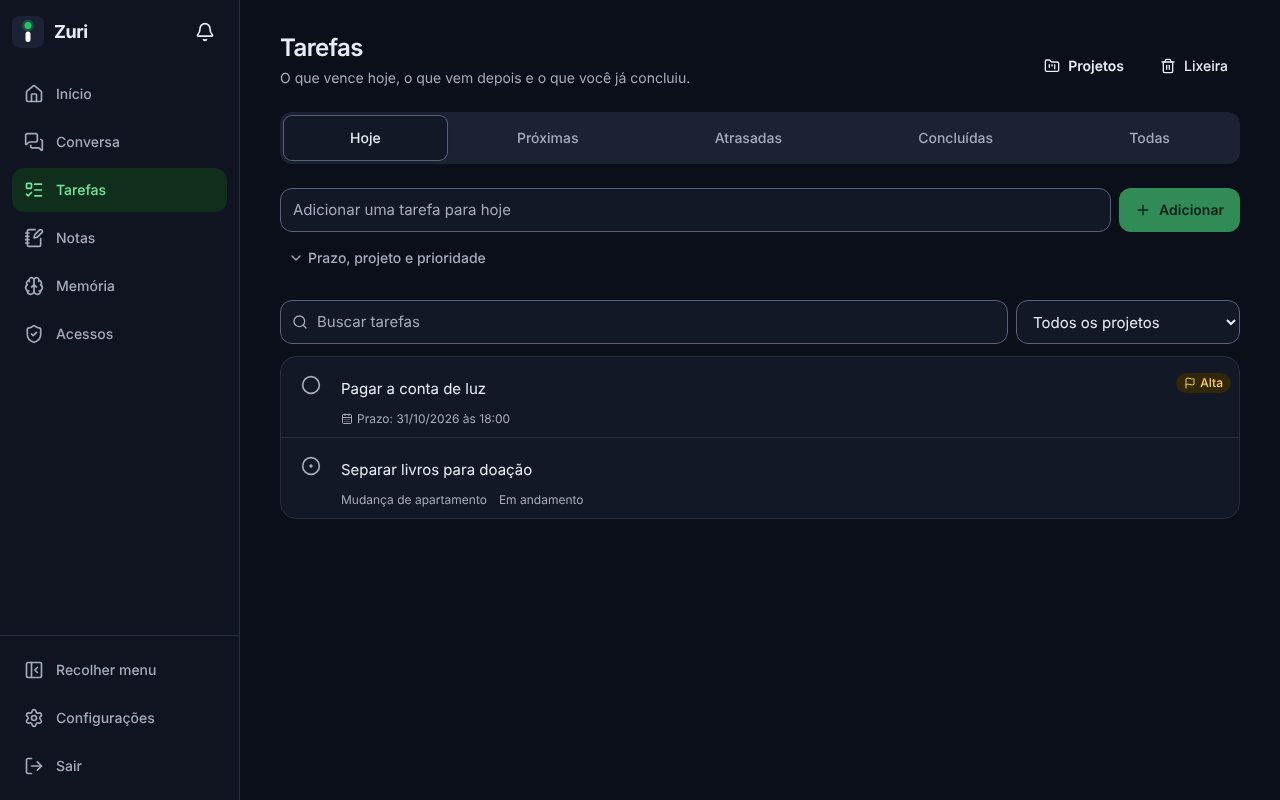
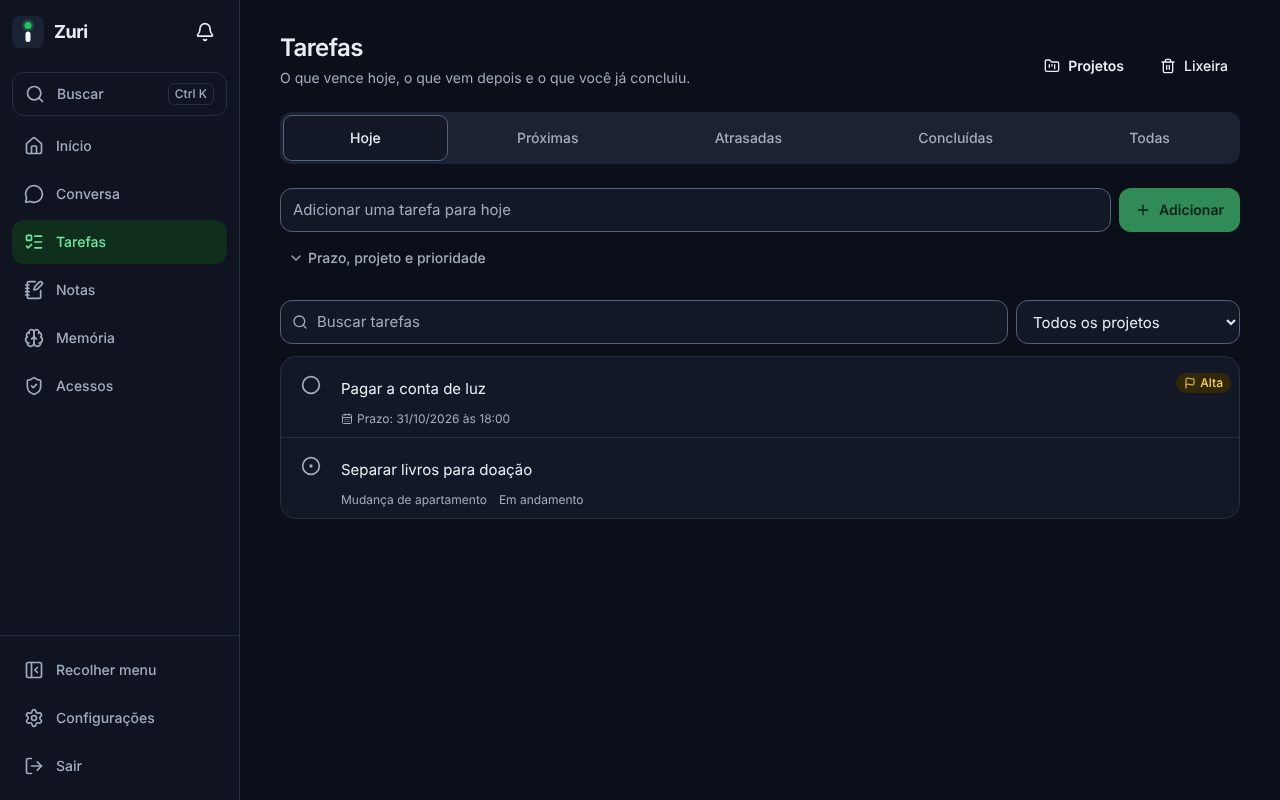
docs: capturas da Conversa e da Memória, e a Zuri no feminino nos textos novos
Capturas do PR em docs/capturas/pr/etapa-09-chat-ferramentas (Memória antes
e depois, Conversa) e as do README refeitas. Os textos novos desta etapa
tratam a agente como "a Zuri" e a marca vira "Anotada pela assistente".

Claude-Session: https://claude.ai/code/session_012XDDEdWJo5GZ1uN91Td3BS

diff --git a/tests/e2e/chat.spec.ts b/tests/e2e/chat.spec.ts
@@ -87,8 +87,8 @@ test("a memory the assistant saves is marked as its own on the Memory screen, an
   await send(page, `call remember {"content":"${fact}"}`);
   await page.goto("/memoria");
   const item = page.getByRole("listitem").filter({ hasText: fact });
-  await expect(item.getByText("Anotada pelo assistente")).toBeVisible();
-  await expectAccessible(page, "memória do assistente");
+  await expect(item.getByText("Anotada pela assistente")).toBeVisible();
+  await expectAccessible(page, "memória da assistente");
 
   await item.getByRole("button", { name: "Editar" }).click();
   const dialog = page.getByRole("dialog");
@@ -96,7 +96,7 @@ test("a memory the assistant saves is marked as its own on the Memory screen, an
   await dialog.getByRole("button", { name: "Guardar" }).click();
   const edited = page.getByRole("listitem").filter({ hasText: `${fact}.` });
   await expect(edited).toBeVisible();
-  await expect(edited.getByText("Anotada pelo assistente")).toHaveCount(0);
+  await expect(edited.getByText("Anotada pela assistente")).toHaveCount(0);
 });
 
 test("deleting needs the owner's approval: declined, nothing happens; approved, it happens once", async ({ page }) => {

diff --git a/packages/shared/i18n/pt-BR-memory.ts b/packages/shared/i18n/pt-BR-memory.ts
@@ -42,8 +42,8 @@ export const ptBRMemory = {
   "web.memory.origin.app": "App",
   "web.memory.origin.telegram": "Telegram",
   "web.memory.origin.import": "Backup",
-  "web.memory.author.agent": "Anotada pelo assistente",
-  "web.memory.author.agentHint": "O assistente guardou isto numa conversa. Quando você edita, ela passa a ser sua.",
+  "web.memory.author.agent": "Anotada pela assistente",
+  "web.memory.author.agentHint": "A assistente guardou isto numa conversa. Quando você edita, ela passa a ser sua.",
   "web.memory.since": "desde {date}",
   "web.memory.savedAt": "guardada em {time}",
   "web.memory.correct": "Atualizar este fato",

diff --git a/.claude/memoria/decisoes.md b/.claude/memoria/decisoes.md
@@ -32,7 +32,7 @@ Fatos e decisões já tomados pelo Pablo. O agente não pergunta de novo nada da
 | 31/10/2026 | Teto único de 9.000 Neurons do Workers AI por dia para chat, voz e embeddings juntos, abaixo da cota gratuita de 10.000. Ao chegar nele, o pedido é recusado com aviso claro; os limites por recurso continuam valendo abaixo do teto. Zera às 00:00 UTC. Implementado na etapa 8. |
 | 31/10/2026 | Login: verificação contra robôs (Cloudflare Turnstile) em toda tentativa, visível na tela de login, obrigatória fora do ambiente local (sem chaves o login fica fechado); chaves de teste só no local. As tentativas de login ficam registradas com IP, lugar, rede e navegador na página "Acessos" (barra lateral; no celular, por Configurações > Segurança). |
 | 31/10/2026 | Melhorias de UX da revisão de design aprovadas (D1, D2, D5 a D8 de `docs/qa/revisao-de-design.md`): paleta de comandos Ctrl/⌘ K com busca global, casca estática no `index.html` antes do JS, tela de entrar mais marcante (mantendo o Turnstile), botão de entrar sempre ativo com erro no próprio campo, toasts para confirmações e, no celular, Configurações como lista de seções que abre cada uma na sua tela. |
-| 31/10/2026 | Memória que o assistente guarda numa conversa fica marcada como dele ("Anotada pelo assistente", coluna `author`) e o modelo confia menos nela; passa a ser do dono quando ele a edita ou repete (SEC-09-07). |
+| 31/10/2026 | Memória que a assistente guarda numa conversa fica marcada como dela ("Anotada pela assistente", coluna `author`) e o modelo confia menos nela; passa a ser do dono quando ele a edita ou repete (SEC-09-07). |
 | 31/10/2026 | Ligar o 2FA ou adicionar uma passkey pede a senha de novo, mesmo com login recente. O alerta de ataque lento ao 2FA se repete enquanto o ataque durar. Um login certo não zera a contagem de erros de senha (3 em 15 min). |
 | 31/10/2026 | README e docs de entrada com a identidade Sinal, e o README sempre atualizado: todo PR que muda funcionalidade, conclui etapa, muda uma tela das capturas ou a arquitetura atualiza o README no mesmo PR, junto com o CHANGELOG (regra em `.claude/rules/readme.md`). A seção About do GitHub descreve o Zuri, sem site com domínio real. |
 | 31/10/2026 | Capturas de tela em todo PR que cria ou muda uma tela: a descrição mostra como a tela ficou no computador e no celular, nos temas claro e escuro, com dados de exemplo (antes e depois quando a tela já existia). As imagens ficam em `docs/capturas/pr/<assunto>/`, saem de `scripts/capturas-da-interface.ts` e entram no PR por link fixado no commit (regra em `.claude/rules/capturas.md`). |

diff --git a/docs/memoria.md b/docs/memoria.md
@@ -79,7 +79,7 @@ desatualizadas" e "Passadas", dentro de um orçamento de
 sobre o passado ("onde eu morava?", "what did I drive before?").
 
 Cada memória vira uma linha `<data source="memory" id="…">…</data>`. A
-memória que o assistente guardou numa conversa ganha `saved_by="assistant"`, e
+memória que a assistente guardou numa conversa ganha `saved_by="assistant"`, e
 o cabeçalho pede ao modelo que confie menos nela. Dentro
 dela, `<`, `>` e os sinais parecidos (`‹ › ＜ ＞ ﹤ ﹥ 〈 〉 ⟨ ⟩ « »`) viram `‹` e
 `›`, então nenhum texto guardado imita uma tag, nem uma tag já neutralizada.
@@ -179,17 +179,18 @@ linhas lidas/gravadas por requisição:
 - a chave da revisão de conflitos.
 
 Cada item tem botões de 44 px: atualizar o fato, editar, histórico, mudar o
-estado e apagar. A memória que o assistente guardou numa conversa (`remember`
-ou `update_memory`) aparece com a marca **Anotada pelo assistente**.
+estado e apagar. O texto da memória aparece sempre como texto, nunca como HTML.
+A memória que a assistente guardou numa conversa (`remember`
+ou `update_memory`) aparece com a marca **Anotada pela assistente**.
 
 ## Quem escreveu
 
 A coluna `author` de `zur_memories` (migration 8) diz quem escreveu a memória:
 `owner` ou `agent`. O canal continua em `origin` (`app`, `telegram`,
-`import`). As memórias anteriores à migration são do dono. Uma memória do
-assistente passa a ser do dono quando ele a edita ou guarda o mesmo texto. O
-assistente repetir uma memória do dono não muda nada, e uma versão nova que ele
-escreva sobre uma memória do dono é dele, com a do dono guardada como fato
-passado. O texto da memória aparece sempre como texto, nunca como HTML.
+`import`). As memórias anteriores à migration são do dono. Uma memória da
+assistente passa a ser do dono quando ele a edita ou guarda o mesmo texto. A
+assistente repetir uma memória do dono não muda nada, e uma versão nova que ela
+escreva sobre uma memória do dono é dela, com a do dono guardada como fato
+passado.
 
 Capturas: `docs/assets/etapa-07/`.

diff --git a/.claude/memoria/progresso.md b/.claude/memoria/progresso.md
@@ -33,7 +33,7 @@ etapas ficam detalhadas; as mais antigas viram uma linha na tabela.
 - Migrations: versão 8 (`zur_conversations`, `zur_messages`, `zur_pending_actions`, `zur_task_plan_drafts`, contadores `conversations` e `messages`, coluna `author` em `zur_memories`).
 - Decisões técnicas: proposta destrutiva com hash SHA-256 do alvo, reivindicada por `UPDATE … RETURNING` e conferida de novo na transação; plano é rascunho e a confirmação recusa tarefa nova; chamada que chega à ferramenta conta no turno mesmo se falhar, mas devolve a vaga do limite por ferramenta; repetição exata recusada; resultado de ferramenta em `<data source="tool">` cortado em 8.000 caracteres; orçamento de contexto = menor entre o do dono e a janela do modelo; resumo quando 8+ mensagens não cabem; textos pt-BR das Configurações viraram `pt-BR-settings.ts` sob demanda (JS inicial 139,0 kB).
 - Ficou para depois: execução agendada usa só ferramentas `read` (`context: "scheduled"`, etapa 10); origem `telegram` das mensagens (etapa 14); sem atualização ao vivo entre duas abas abertas na mesma conversa.
-- SEC-09-07 (pedido do Pablo): memória que o assistente guarda tem `author = 'agent'`, marca "Anotada pelo assistente" e `saved_by="assistant"` no prompt; vira do dono quando ele edita ou repete. O Telegram (etapa 14) passa `origin: telegram` e `author: agent` em `remember`.
+- SEC-09-07 (pedido do Pablo): memória que a assistente guarda tem `author = 'agent'`, marca "Anotada pela assistente" e `saved_by="assistant"` no prompt; vira do dono quando ele edita ou repete. O Telegram (etapa 14) passa `origin: telegram` e `author: agent` em `remember`.
 - Atenção para a próxima: a etapa 10 chama o runner com `context: "scheduled"` e sem dono presente (nada destrutivo, nenhum plano); toda IA continua por `agent.ai()`. O mock entende `call <ferramenta> {json}`.
 
 ### Etapa 8 · Provedor de IA e medição de uso

diff --git a/README.md b/README.md
@@ -24,7 +24,7 @@ de um Durable Object e conversa com você pelo navegador e, em breve, pelo Teleg
 </div>
 
 > [!NOTE]
-> **Em construção.** O Zuri sai em 26 etapas, uma por PR, a partir da [especificação](docs/especificacao.md). As etapas 0 a 9 estão na `develop`, inclusive a conversa com o agente. O [mapa das etapas](#-mapa-das-etapas) mostra o que já existe e o que vem a seguir; o estado detalhado fica em [`progresso.md`](.claude/memoria/progresso.md).
+> **Em construção.** A Zuri sai em 26 etapas, uma por PR, a partir da [especificação](docs/especificacao.md). As etapas 0 a 9 estão na `develop`, inclusive a conversa com o agente. O [mapa das etapas](#-mapa-das-etapas) mostra o que já existe e o que vem a seguir; o estado detalhado fica em [`progresso.md`](.claude/memoria/progresso.md).
 
 ## Sumário
 
@@ -70,7 +70,7 @@ As capturas abaixo acompanham o tema do seu GitHub (claro ou escuro) e saem da `
     <td width="50%" valign="top">
       <picture>
         <source media="(prefers-color-scheme: dark)" srcset="docs/capturas/inicio-computador-escuro.png">
-        <img src="docs/capturas/inicio-computador-claro.png" alt="Início do Zuri no computador: barra lateral com Início, Conversa, Tarefas, Notas, Memória e Acessos, e cartões de Segurança e Sessão">
+        <img src="docs/capturas/inicio-computador-claro.png" alt="Início da Zuri no computador: barra lateral com Início, Conversa, Tarefas, Notas, Memória e Acessos, e cartões de Segurança e Sessão">
       </picture>
       <p align="center"><b>Início</b>: segurança da conta e sessão num relance</p>
     </td>

diff --git a/docs/seguranca.md b/docs/seguranca.md
@@ -384,7 +384,7 @@ limite real está no servidor:
 | Renomear e propor apagar no mesmo turno | `chat-runner.test.ts`, "SEC-09-01 renaming an item and then proposing to destroy it" |
 | Áudio de bitrate baixo para fugir do limite | `ai-transcription.test.ts`, "SEC-09-02 a low-bitrate file" |
 | Conversa apagada durante a resposta | `chat-routes.test.ts`, "SEC-09-04 deleting the conversation while its answer is written" |
-| Memória plantada pelo assistente passando por fato dito pelo dono | `chat-tools-edges.test.ts`, "who wrote a memory (SEC-09-07)"; `tests/e2e/chat.spec.ts`, "a memory the assistant saves is marked as its own" |
+| Memória plantada pela assistente passando por fato dito pelo dono | `chat-tools-edges.test.ts`, "who wrote a memory (SEC-09-07)"; `tests/e2e/chat.spec.ts`, "a memory the assistant saves is marked as its own" |
 | Link de resposta para outro site | `tests/e2e/chat.spec.ts`, "a link in an answer shows where it really goes" |
 | Modelo diz que fez o que não fez | `chat-runner.test.ts`, "past proposals reach the model with their real outcome" |
 | Nota com `</data>` e ordens | `chat-tools.test.ts`, "read_note hands back a stored injection as inert data" |

diff --git a/CHANGELOG.md b/CHANGELOG.md
@@ -237,10 +237,10 @@ o [SemVer](https://semver.org/lang/pt-BR/). Cada PR escreve a sua entrada em
   obedeça a um texto injetado, nada é apagado ou reescrito sem a aprovação do
   dono, e os limites por resposta seguram ataques em massa. Os cenários de
   injeção de prompt viraram testes (`docs/seguranca.md`).
-- A `Permissions-Policy` libera o microfone só para o próprio Zuri
+- A `Permissions-Policy` libera o microfone só para a própria Zuri
   (`microphone=(self)`), para a voz da conversa.
-- Uma memória que o assistente guarda numa conversa aparece como **Anotada
-  pelo assistente** na tela de Memória, e o modelo sabe que ela não foi
+- Uma memória que a assistente guarda numa conversa aparece como **Anotada
+  pela assistente** na tela de Memória, e o modelo sabe que ela não foi
   confirmada por você. Assim, um texto injetado que o leve a guardar um "fato"
   não passa por algo que você disse. Ao editar a memória, ela passa a ser sua.
 - O agente não pode renomear um item e, no mesmo turno, propor apagá-lo ou

diff --git a/docs/chat.md b/docs/chat.md
@@ -115,7 +115,7 @@ limite) e manda para `POST /api/transcribe`. O texto volta para o compositor e
 o dono lê antes de enviar. O áudio não é guardado. Limites: 2 MB por áudio, um
 de cada vez e uma hora por dia. Cada áudio conta o maior entre o tempo medido
 pelo navegador e o que o tamanho indica, e é contado antes da chamada. A
-política `Permissions-Policy` libera o microfone só para o próprio Zuri
+política `Permissions-Policy` libera o microfone só para a própria Zuri
 (`microphone=(self)`).
 
 ## Modelo de dados (migration 8)
